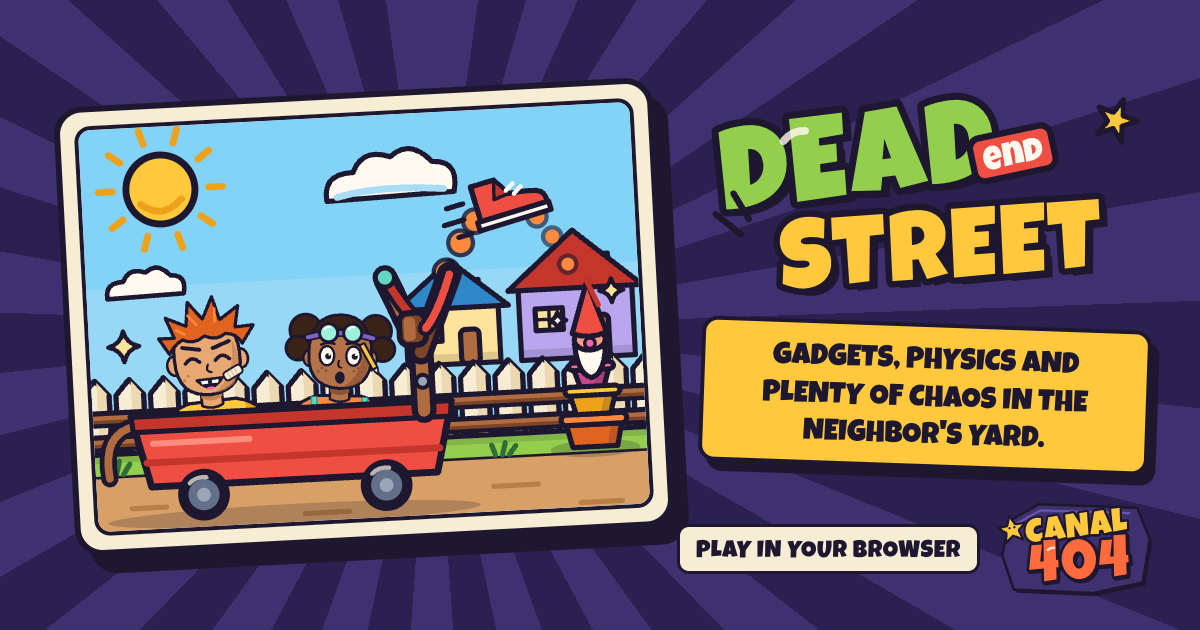
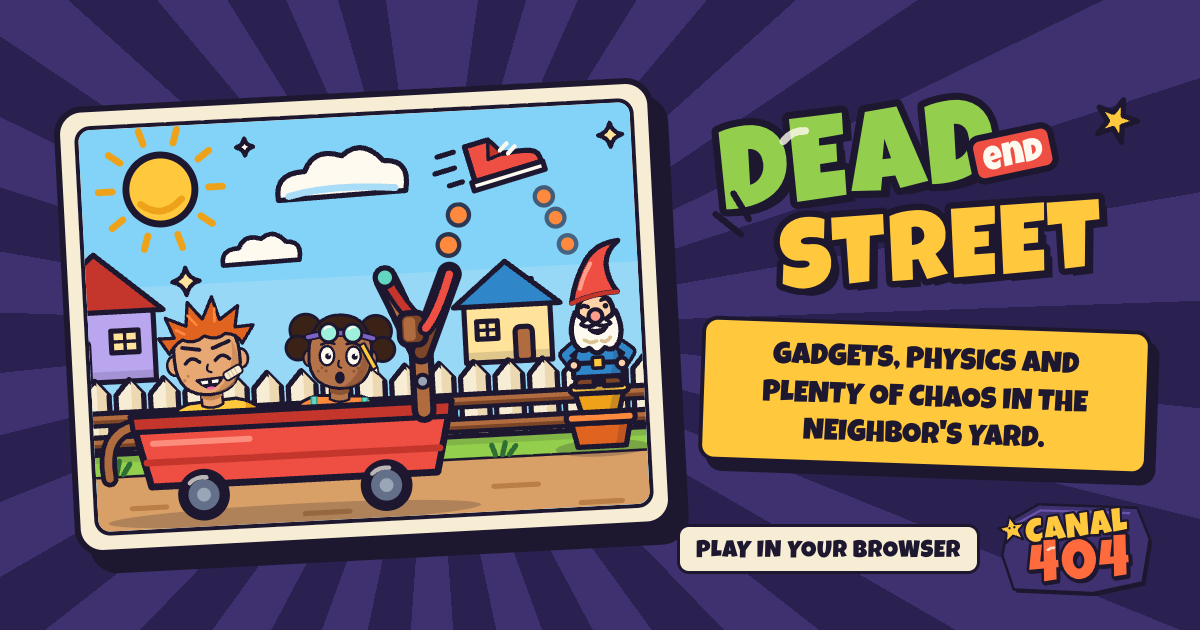
Rebalance the Rua Sem Saída cover around a real garden gnome
Draw the gnome with a full body (long bent hat, wink, round nose, bushy
beard, hands on hips) on two pots instead of a head on three pots.
Move the purple house to the left edge so the blue house sits alone
between the slingshot and the gnome. Raise the shoe arc into open sky
and space the dots so none sit under the sneaker or on a roof.
Fix the cover alt text (slingshot, not giant spoon) and regenerate
the Rua Sem Saída share images.

diff --git a/src/components/art/Covers.tsx b/src/components/art/Covers.tsx
@@ -50,7 +50,7 @@ function Burst({ cx, cy, color, count = 16, r = 360 }: { cx: number; cy: number;
 
 const COVER_ALT = localized({
   "pt-BR": {
-    "dead-end-street": "Capa de Rua Sem Saída: Déco e Lina num carrinho com uma colher gigante lançando um tênis em direção a uma pilha de vasos com um gnomo",
+    "dead-end-street": "Capa de Rua Sem Saída: Déco e Lina num carrinho com um estilingue lançando um tênis em direção a um gnomo de jardim em cima de uma pilha de vasos",
     "bad-ideas-lab": "Capa de Laboratório de Péssimas Ideias: Lina atrás da bancada, com um frasco borbulhando, engrenagens e uma lâmpada acesa",
     "food-fight": "Capa de Guerra de Lanche: na cantina, Déco se prepara para arremessar um sanduíche enquanto a Mila se protege de um pudim com uma bandeja",
     "operation-recess": "Capa de Operação: Recreio: no corredor da escola, Bruno ergue a espada de papelão contra um monitor que apita bloqueando o caminho para a diretoria",
@@ -61,7 +61,7 @@ const COVER_ALT = localized({
     "talent-show": "Capa de Ao Vivo no 404: no palco do Canal 404, sob o letreiro luminoso do 404, o Déco toca um balde virado debaixo do holofote, com a Lina no teclado, a Mila no gravador e o Bruno no chocalho, enquanto o júri levanta as placas de nota, uma delas com um 10, e a plateia assiste lá da frente",
   },
   en: {
-    "dead-end-street": "Dead End Street cover: Déco and Lina in a cart with a giant spoon, launching a sneaker at a stack of flowerpots with a gnome",
+    "dead-end-street": "Dead End Street cover: Déco and Lina in a cart with a slingshot, launching a sneaker at a garden gnome on top of a stack of flowerpots",
     "bad-ideas-lab": "Bad Ideas Lab cover: Lina behind the workbench, with a bubbling flask, gears and a lit light bulb",
     "food-fight": "Food Fight cover: in the cafeteria, Déco gets ready to throw a sandwich while Mila blocks a pudding with a tray",
     "operation-recess": "Operation: Recess cover: in the school hallway, Bruno raises his cardboard sword at a whistle-blowing hall monitor who blocks the way to the principal's office",
@@ -91,7 +91,7 @@ function Frame({ children, bg, label, decorative }: { children: React.ReactNode;
   );
 }
 
-const ARC = { from: { x: 200, y: 118 }, via: { x: 246, y: 0 }, to: { x: 286, y: 112 } };
+const ARC = { from: { x: 200, y: 118 }, via: { x: 244, y: -52 }, to: { x: 292, y: 122 } };
 
 const arcAt = (t: number) => arcPoint(ARC.from, ARC.via, ARC.to, t);
 
@@ -107,9 +107,41 @@ function Pot({ cx, bottom, w, h, fill, rim }: { cx: number; bottom: number; w: n
   );
 }
 
+function CoverGnome({ x, y, s }: { x: number; y: number; s: number }) {
+  const w = 3 / s;
+  return (
+    <g transform={`translate(${x} ${y}) scale(${s})`} stroke={P.ink} strokeWidth={w} strokeLinejoin="round" strokeLinecap="round">
+      <path d="M-15 0 Q-16 -5 -12 -6 L-12 -9 L-3 -9 L-3 0 Z M15 0 Q16 -5 12 -6 L12 -9 L3 -9 L3 0 Z" fill={P.woodDeep} />
+      <path d="M-16 -6 Q-17 -33 0 -34 Q17 -33 16 -6 Z" fill={P.skyDeep} />
+      <path d="M9 -31 Q16 -24 15 -7 L8 -7 Q12 -20 9 -31 Z" fill={P.ink} opacity={0.18} stroke="none" />
+      <path d="M-16.4 -15 L16.4 -15" />
+      <rect x={-3.5} y={-18.5} width={7} height={7} rx={1} fill={P.sun} strokeWidth={w * 0.7} />
+      {[-1, 1].map((k) => (
+        <g key={k}>
+          <path d={`M${k * 12} -28 L${k * 21} -21 L${k * 16} -14`} fill="none" strokeWidth={w * 2.6} />
+          <path d={`M${k * 12} -28 L${k * 21} -21 L${k * 16} -14`} fill="none" stroke={P.skyDeep} strokeWidth={w * 1.2} />
+          <circle cx={k * 15.5} cy={-14} r={3.4} fill={P.skinLight} strokeWidth={w * 0.8} />
+        </g>
+      ))}
+      <circle cx="0" cy="-48" r="11.5" fill={P.skinLight} />
+      <path d="M-13 -48 Q-18.5 -36 -14 -27 Q-10 -21 -5 -24.5 Q0 -18 5 -24.5 Q10 -21 14 -27 Q18.5 -36 13 -48 Q7 -41 0 -41 Q-7 -41 -13 -48 Z" fill={P.white} />
+      <path d="M-8 -30 Q-4 -27 0 -29 M3 -29 Q6 -27 9 -31" fill="none" stroke={P.cream3} strokeWidth={w * 0.7} />
+      <path d="M-4.5 -36.5 Q1.5 -30.5 7 -37.5 Q1.5 -34.5 -4.5 -36.5 Z" fill={P.ink} strokeWidth={w * 0.6} />
+      <path d="M0 -42 Q-6 -45.5 -9.5 -40 Q-5 -37 0 -40 Q5 -37 9.5 -40 Q6 -45.5 0 -42 Z" fill={P.white} strokeWidth={w * 0.8} />
+      <circle cx="0" cy="-45" r="4.4" fill={P.blush} strokeWidth={w * 0.8} />
+      <path d="M-9.5 -51 Q-7 -53 -4.5 -51" fill="none" strokeWidth={w * 0.8} />
+      <circle cx="6.8" cy="-51.3" r="1.8" fill={P.ink} stroke="none" />
+      <path d="M4 -55 Q7 -56.8 10 -55.2" fill="none" strokeWidth={w * 0.7} />
+      <path d="M-15 -54 Q-12 -70 -4 -82 Q3 -92 17 -93 Q9 -87 8.5 -78 Q9 -68 15 -60 Q0 -60 -15 -54 Z" fill={P.tomato} />
+      <path d="M-9 -63 Q-6.5 -72 -1.5 -79" fill="none" stroke={P.blush} strokeWidth={w * 0.8} />
+      <path d="M-15 -54 Q0 -60 15 -60" fill="none" stroke={P.tomatoDeep} strokeWidth={w * 0.8} />
+    </g>
+  );
+}
+
 export function DeadEndStreetCover({ decorative, locale = DEFAULT_LOCALE }: CoverProps) {
-  const dots = [0.1, 0.2, 0.3, 0.4, 0.62, 0.72, 0.82, 0.92].map((t) => ({ t, ...arcAt(t) }));
-  const shoe = arcAt(0.51);
+  const dots = [0.125, 0.2, 0.745, 0.81, 0.875].map((t) => ({ t, ...arcAt(t) }));
+  const shoe = arcAt(0.48);
   return (
     <Frame decorative={decorative} bg="#82d3f7" label={COVER_ALT[locale]["dead-end-street"]}>
       <rect y="96" width="320" height="70" fill={P.skyPale} opacity={0.55} />
@@ -122,15 +154,17 @@ export function DeadEndStreetCover({ decorative, locale = DEFAULT_LOCALE }: Cove
         <circle cx="46" cy="40" r="20" fill={P.sun} {...ink} />
         <path d="M34 48 Q46 58 58 46" fill="none" stroke={P.sunDeep} strokeWidth={4} strokeLinecap="round" />
       </g>
-      <g transform="translate(112 -8)">
+      <g transform="translate(84 -10)">
         <path d="M30 60 Q28 44 46 44 Q52 30 68 36 Q80 26 92 40 Q108 40 104 58 Z" fill={P.white} {...ink} strokeWidth={3} />
         <path d="M36 58 Q60 52 98 56" fill="none" stroke={P.skyPale} strokeWidth={4} strokeLinecap="round" />
       </g>
-      <g transform="translate(-6 66) scale(0.6)">
+      <g transform="translate(62 50) scale(0.6)">
         <path d="M30 60 Q28 44 46 44 Q52 30 68 36 Q80 26 92 40 Q108 40 104 58 Z" fill={P.white} {...ink} strokeWidth={4.5} />
       </g>
-      <House x={184} w={54} h={34} peak={26} wall={P.sunPale} roof={P.skyDeep} />
-      <House x={250} w={66} h={42} peak={32} wall={P.plum300} roof={P.tomatoDeep} />
+      <g transform="translate(10 0) scale(-1 1)">
+        <House x={-28} w={66} h={42} peak={32} wall={P.plum300} roof={P.tomatoDeep} />
+      </g>
+      <House x={218} w={50} h={34} peak={24} wall={P.sunPale} roof={P.skyDeep} />
       <g>
         {Array.from({ length: 17 }, (_, i) => i * 20 - 6).map((x) => (
           <g key={x}>
@@ -152,22 +186,16 @@ export function DeadEndStreetCover({ decorative, locale = DEFAULT_LOCALE }: Cove
         <path d="M8 204 L6 197 M12 204 L14 196 M16 204 L20 198" />
         <path d="M232 204 L230 198 M236 204 L238 197 M240 204 L244 199" />
       </g>
-      <ellipse cx="290" cy="203" rx="26" ry="5" fill={P.ink} opacity={0.22} />
-      <Pot cx={290} bottom={202} w={38} h={19} fill={P.tangerineDeep} rim={P.tangerine} />
-      <Pot cx={290} bottom={183} w={32} h={16} fill={P.sunDeep} rim={P.sun} />
-      <Pot cx={290} bottom={167} w={26} h={14} fill={P.bubblegumDeep} rim={P.bubblegum} />
-      <g stroke={P.ink} strokeWidth={3} strokeLinejoin="round" strokeLinecap="round">
-        <path d="M281 142 Q282 160 290 162 Q298 160 299 142 Q290 150 281 142 Z" fill={P.white} />
-        <ellipse cx="290" cy="140" rx="9" ry="6" fill={P.blush} />
-        <circle cx="290" cy="142" r="3" fill={P.bubblegum} strokeWidth={2} />
-        <path d="M280 136 L290 106 L300 136 Q290 140 280 136 Z" fill={P.tomato} />
-        <path d="M290 106 L296 120" stroke={P.tomatoDeep} strokeWidth={3} />
-      </g>
-      <Sparkle4 x={304} y={112} r={7} fill={P.sunPale} />
-      <Sparkle4 x={272} y={128} r={5} fill={P.white} />
+      <ellipse cx="294" cy="203" rx="27" ry="5" fill={P.ink} opacity={0.22} />
+      <Pot cx={294} bottom={202} w={40} h={20} fill={P.tangerineDeep} rim={P.tangerine} />
+      <Pot cx={294} bottom={182} w={34} h={16} fill={P.sunDeep} rim={P.sun} />
+      <ellipse cx="294" cy="167" rx="15" ry="2.6" fill={P.ink} opacity={0.25} />
+      <CoverGnome x={294} y={167} s={0.9} />
+      <Sparkle4 x={308} y={22} r={7} fill={P.sunPale} />
+      <Sparkle4 x={96} y={18} r={5} fill={P.white} />
       <g>
         {dots.map(({ t, x, y }) => {
-          const r = 6.5 - t * 3;
+          const r = 5.2 - t * 1.6;
           return (
             <g key={t}>
               <circle cx={x} cy={y} r={r + 2.5} fill={P.ink} opacity={0.9 - t * 0.35} />
@@ -177,7 +205,7 @@ export function DeadEndStreetCover({ decorative, locale = DEFAULT_LOCALE }: Cove
         })}
       </g>
       <g transform={`translate(${shoe.x.toFixed(1)} ${shoe.y.toFixed(1)}) rotate(-14)`}>
-        <path d="M-34 -6 L-24 -6 M-38 3 L-26 3 M-32 12 L-24 12" stroke={P.ink} strokeWidth={3} strokeLinecap="round" />
+        <path d="M-34 -13 L-24 -13 M-38 -4 L-26 -4 M-32 5 L-24 5" stroke={P.ink} strokeWidth={3} strokeLinecap="round" />
         <path d="M-17 -14 L-3 -14 L3 -4 Q13 -3 19 -1 Q24 1 23 7 L-17 7 Z" fill={P.tomato} {...ink} strokeWidth={3} />
         <path d="M-3 -14 L3 -4 L-6 -3 Z" fill={P.tomatoDeep} {...ink} strokeWidth={2} />
         <path d="M-17 -14 L-17 7" stroke={P.ink} strokeWidth={3} strokeLinecap="round" />
@@ -204,7 +232,7 @@ export function DeadEndStreetCover({ decorative, locale = DEFAULT_LOCALE }: Cove
         <path d="M160 211 Q164 207 170 208" stroke={P.white} strokeWidth={2.5} strokeLinecap="round" fill="none" opacity={0.7} />
       </g>
       <Fork x={192} y={176} s={1.7} pouch={{ x: 2, y: -28 }} tension={0} />
-      <Sparkle4 x={20} y={130} r={9} fill={P.sunPale} />
+      <Sparkle4 x={58} y={94} r={8} fill={P.sunPale} />
     </Frame>
   );
 }
